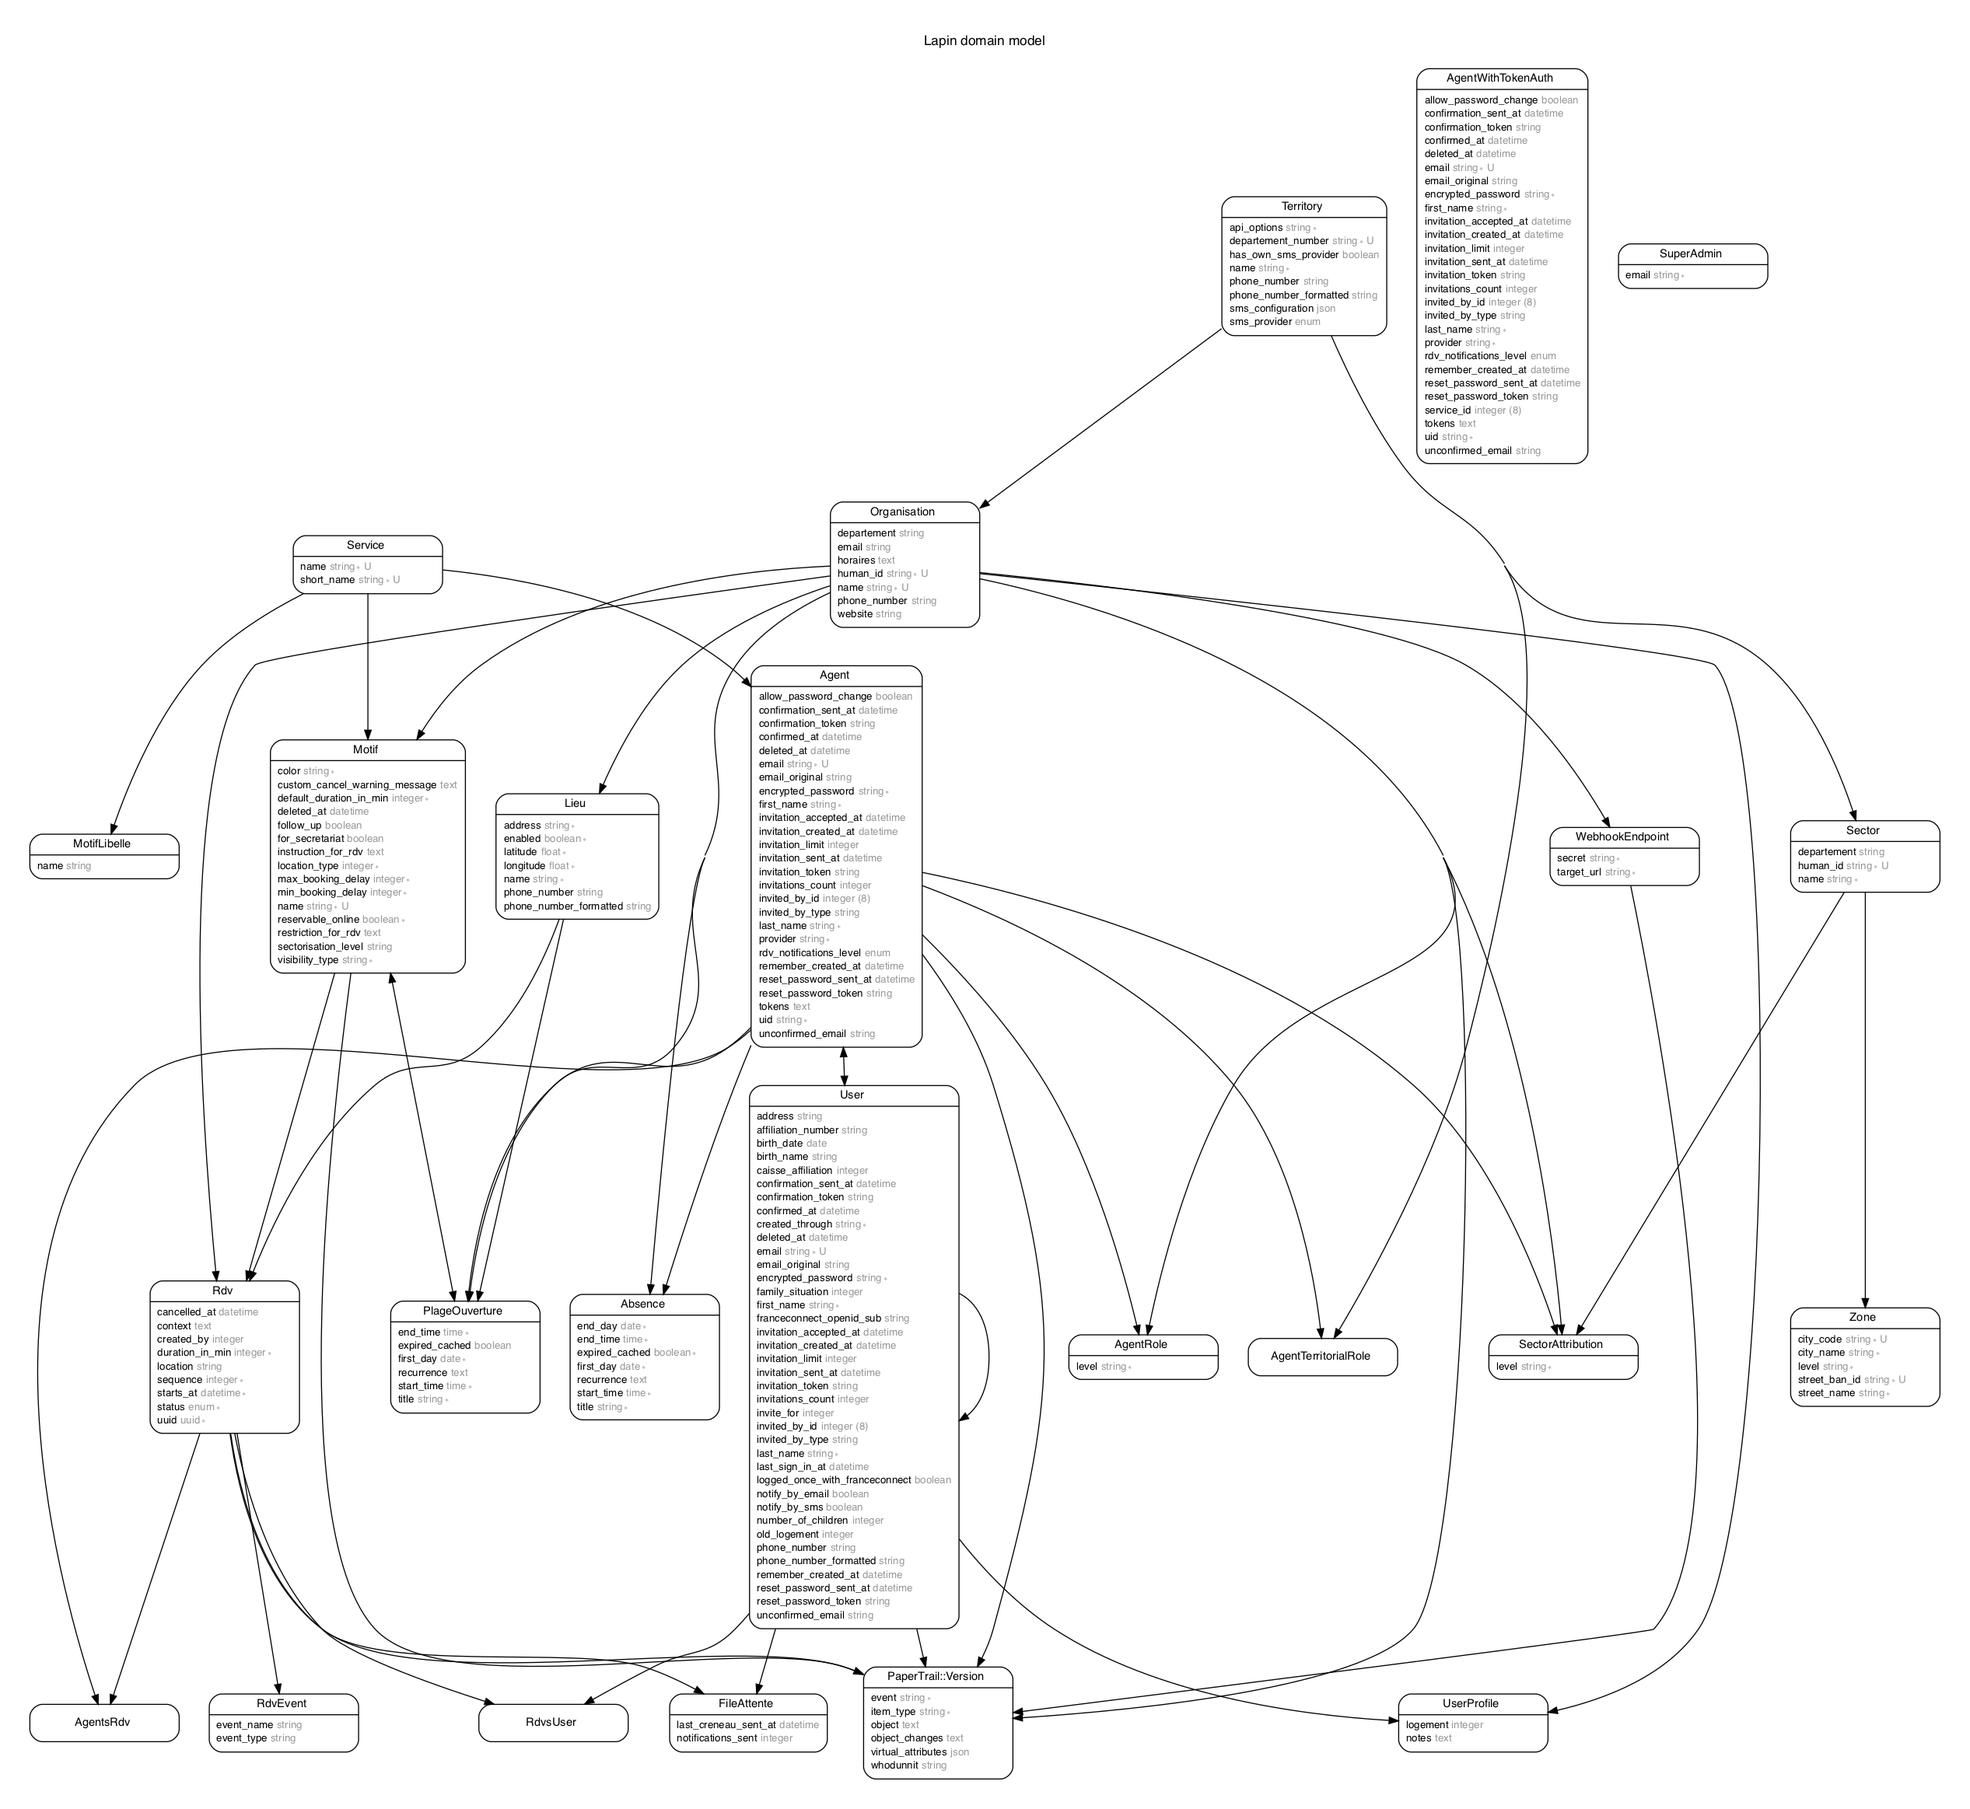
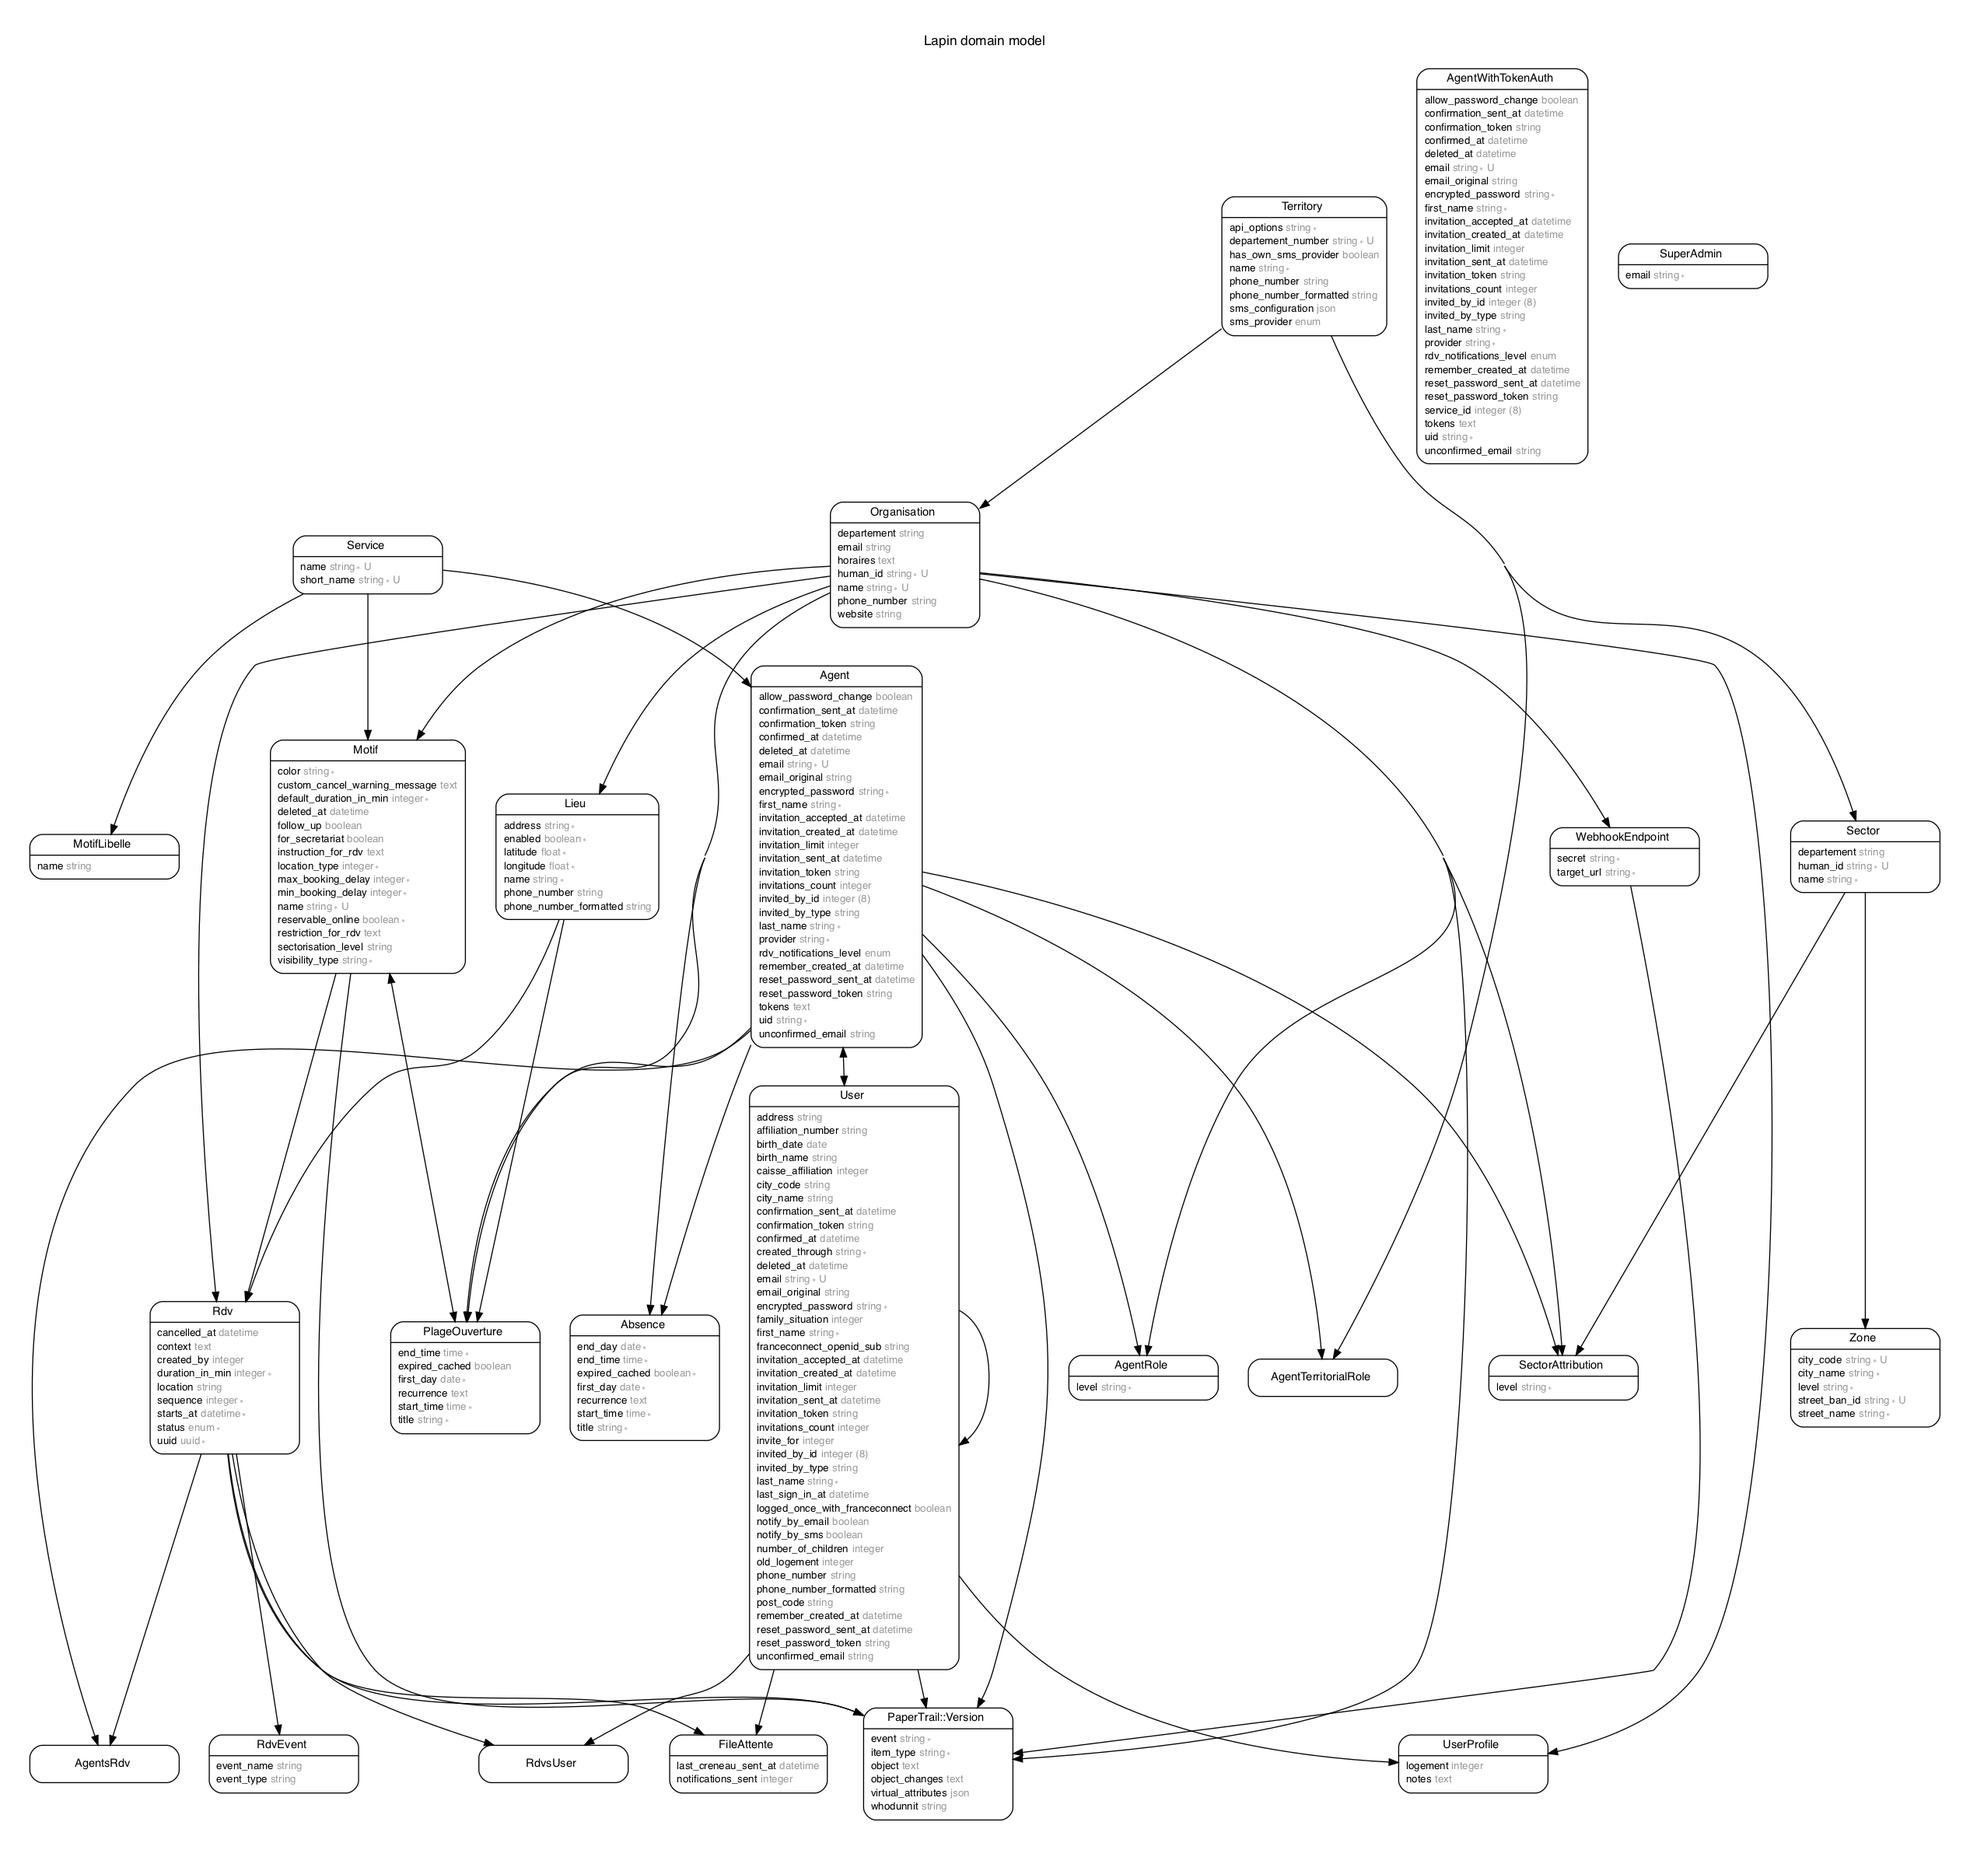
stock et affiche la commune de l'usager
L'affichage est uniquement dans l'export Excel

diff --git a/app/webpacker/components/places-inputs.js b/app/webpacker/components/places-inputs.js
@@ -2,7 +2,6 @@ import 'autocomplete.js/dist/autocomplete.jquery.js'
 import 'custom-event-polyfill'
 import 'whatwg-fetch'
 
-
 class PlacesInput {
   constructor(container) {
     if (container === null) return false;
@@ -10,7 +9,7 @@ class PlacesInput {
     this.addressType = container.dataset.addressType;
     const form = $(container).closest('form')[0];
     this.dependentInputs =
-      ["departement", "latitude", "longitude", "city_code", "city_name", "street_ban_id", "street_name"].
+      ["departement", "latitude", "longitude", "city_code", "post_code", "city_name", "street_ban_id", "street_name"].
         map(name => ({ name, elt: form.querySelector(`input[name*=${name}]`)})).
         filter(i => !!i.elt) // filter only present inputs
 

diff --git a/spec/service_functions/rdv_exporter_spec.rb b/spec/service_functions/rdv_exporter_spec.rb
@@ -146,29 +146,29 @@ describe RdvExporter, type: :service do
 
     describe "commune du premier responsable" do
       it "return 92320 (Chatillon's postal code) when first responsable leave there" do
-        first_major = create(:user, birth_date: Date.new(2002, 3, 12), address: "2 Rue Jean Pierre Timbaud, Châtillon, 92320, 92, Hauts-de-Seine, Île-de-France")
+        first_major = create(:user, birth_date: Date.new(2002, 3, 12), city_name: "Châtillon")
         minor = create(:user, birth_date: Date.new(2016, 5, 30), responsible_id: first_major.id)
         other_major = create(:user, birth_date: Date.new(2002, 3, 12))
         other_minor = create(:user, birth_date: Date.new(2016, 5, 30), responsible_id: other_major.id)
         rdv = create(:rdv, created_at: Time.zone.local(2020, 3, 23, 9, 54, 33), users: [minor, other_minor, first_major, other_major])
 
-        expect(described_class.row_array_from(rdv)[13]).to eq("92320")
+        expect(described_class.row_array_from(rdv)[13]).to eq("Châtillon")
       end
 
       it "return responsible's address for relative " do
-        first_major = create(:user, birth_date: Date.new(2002, 3, 12), address: "2 Rue Jean Pierre Timbaud, Châtillon, 92320, 92, Hauts-de-Seine, Île-de-France")
+        first_major = create(:user, birth_date: Date.new(2002, 3, 12), city_name: "Châtillon")
         minor = create(:user, birth_date: Date.new(2016, 5, 30), responsible_id: first_major.id)
         rdv = create(:rdv, created_at: Time.zone.local(2020, 3, 23, 9, 54, 33), users: [minor])
-        expect(described_class.row_array_from(rdv)[13]).to eq("92320")
+        expect(described_class.row_array_from(rdv)[13]).to eq("Châtillon")
       end
 
       it "return second responsible commune when first does not have one " do
         major = create(:user, birth_date: Date.new(2002, 3, 12), address: nil)
         minor = create(:user, birth_date: Date.new(2016, 5, 30), responsible_id: major.id)
-        other_major = create(:user, birth_date: Date.new(2002, 3, 12), address: "2 Rue Jean Pierre Timbaud, Châtillon, 92320, 92, Hauts-de-Seine, Île-de-France")
+        other_major = create(:user, birth_date: Date.new(2002, 3, 12), city_name: "Châtillon")
         other_minor = create(:user, birth_date: Date.new(2016, 5, 30), responsible_id: other_major.id)
         rdv = create(:rdv, created_at: Time.zone.local(2020, 3, 23, 9, 54, 33), users: [minor, other_minor, major, other_major])
-        expect(described_class.row_array_from(rdv)[13]).to eq("92320")
+        expect(described_class.row_array_from(rdv)[13]).to eq("Châtillon")
       end
     end
 

diff --git a/scripts/update_city_name_and_code_from_address.rb b/scripts/update_city_name_and_code_from_address.rb
@@ -1,0 +1,17 @@
+# frozen_string_literal: true
+
+User.all.each do |user|
+  next if user.address.blank?
+
+  response = Net::HTTP.get_response(URI("https://api-adresse.data.gouv.fr/search/?q=#{URI.encode(user.address.to_s)}"))
+
+  response_json = JSON.parse(response.body)
+  best_response = response_json["features"].sort_by { |r| r["properties"]["score"] }.reverse.first
+  next if best_response.blank?
+
+  city_code = best_response["properties"]["citycode"]
+  post_code = best_response["properties"]["postcode"]
+  city_name = best_response["properties"]["city"]
+
+  user.update(city_code: city_code, post_code: post_code, city_name: city_name)
+end

diff --git a/db/schema.rb b/db/schema.rb
@@ -429,6 +429,9 @@ ActiveRecord::Schema.define(version: 2021_09_29_093324) do
     t.string "created_through"
     t.boolean "logged_once_with_franceconnect"
     t.integer "invite_for"
+    t.string "city_code"
+    t.string "post_code"
+    t.string "city_name"
     t.index ["confirmation_token"], name: "index_users_on_confirmation_token", unique: true
     t.index ["email"], name: "index_users_on_email", unique: true, where: "(email IS NOT NULL)"
     t.index ["invitation_token"], name: "index_users_on_invitation_token", unique: true

diff --git a/app/services/rdv_exporter.rb b/app/services/rdv_exporter.rb
@@ -74,16 +74,6 @@ module RdvExporter
   end
 
   def self.commune_premier_responsable(rdv)
-    address = rdv.users.map(&:user_to_notify).pluck(:address).compact.first
-    return "" if address.blank?
-
-    extract_postal_code_from(address)
-  end
-
-  def self.extract_postal_code_from(address)
-    postal_code = address.match(/.*([0-9]{5}).*/)
-    return "" if postal_code.blank? || postal_code.captures.empty?
-
-    postal_code.captures.first
+    rdv.users.map(&:user_to_notify).pluck(:city_name).compact.first
   end
 end

diff --git a/app/controllers/admin/users_controller.rb b/app/controllers/admin/users_controller.rb
@@ -9,7 +9,8 @@ class Admin::UsersController < AgentAuthController
   PERMITTED_ATTRIBUTES = %i[
     id
     first_name last_name birth_name email phone_number
-    birth_date address caisse_affiliation affiliation_number
+    birth_date caisse_affiliation affiliation_number
+    address post_code city_code city_name
     family_situation number_of_children
     notify_by_sms notify_by_email
   ].freeze

diff --git a/db/migrate/20210913213227_add_city_code_and_post_code_and_city_name_to_user.rb b/db/migrate/20210913213227_add_city_code_and_post_code_and_city_name_to_user.rb
@@ -1,0 +1,9 @@
+# frozen_string_literal: true
+
+class AddCityCodeAndPostCodeAndCityNameToUser < ActiveRecord::Migration[6.0]
+  def change
+    add_column :users, :city_code, :string
+    add_column :users, :post_code, :string
+    add_column :users, :city_name, :string
+  end
+end

diff --git a/app/controllers/users/users_controller.rb b/app/controllers/users/users_controller.rb
@@ -27,6 +27,9 @@ class Users::UsersController < UserAuthController
       :phone_number,
       :birth_date,
       :address,
+      :city_name,
+      :post_code,
+      :city_code,
       :caisse_affiliation,
       :affiliation_number,
       :family_situation,
